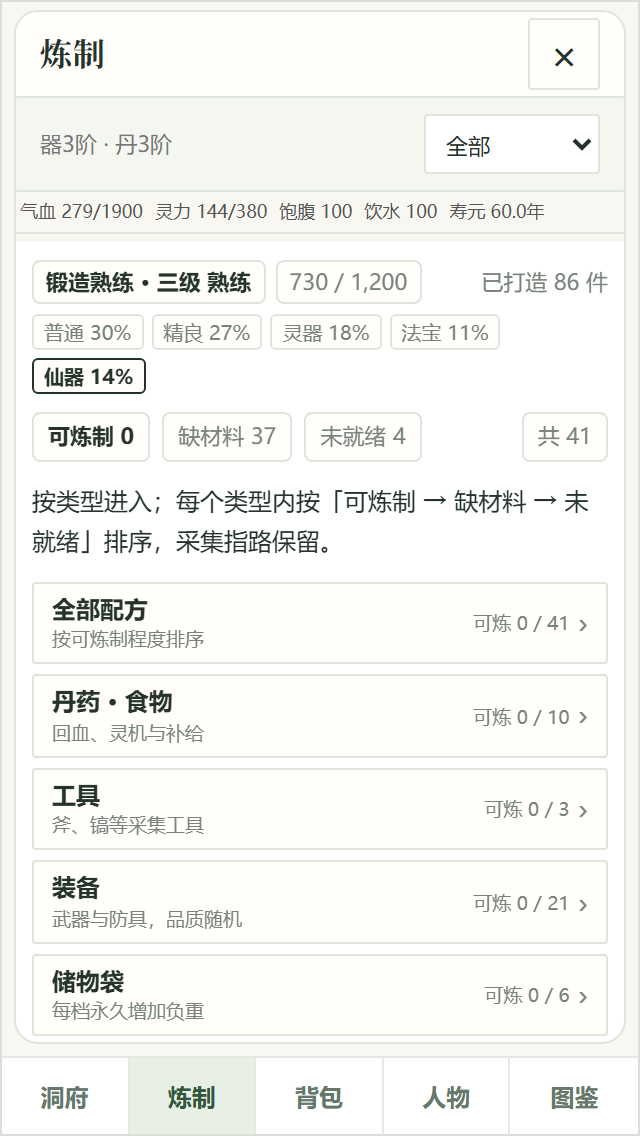
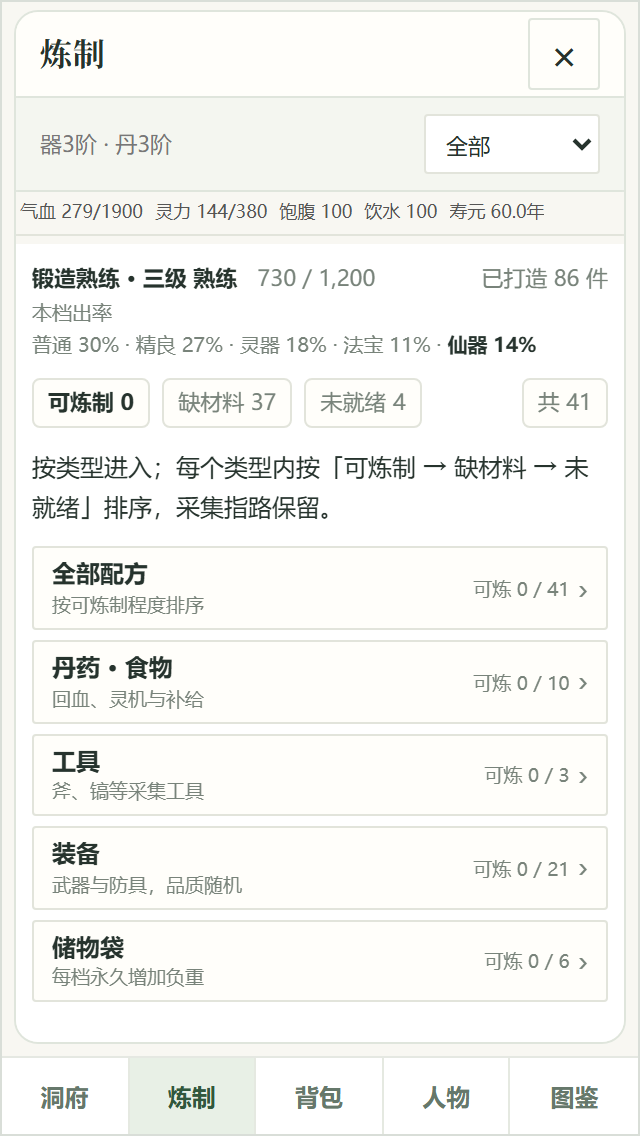
V90.52 返工：出率改成纯文字读数(去掉 chip 边框/高亮，避免被当成可选框)，档名+百分比不拆行；验收59/59，回归34/34；重传包343831 覆盖草稿(仍V-20261021-1 审核中，线上未动)

Changed region(s): [[0.0312, 0.2157, 0.9375, 0.9243], [0.6875, 0.3389, 0.9688, 0.4621]]

diff --git a/index.html b/index.html
@@ -1417,15 +1417,16 @@ body.theme-mono .rarity-0,body.theme-mono .rarity-1,body.theme-mono .rarity-2,bo
 #panel-root .craft-summary .craft-ok{color:var(--ink,#222);font-weight:600}
 #panel-root .craft-summary .craft-total{margin-left:auto;color:var(--muted,#555)}
 /* ---- V90.52 锻造熟练度：一行称号/进度 + 一行五档出率（不新增页面） ---- */
-#panel-root .forge-prof{display:flex;flex-wrap:wrap;align-items:center;gap:5px;margin:0 0 5px;font-size:11px;line-height:1.45;color:var(--muted,#555)}
-#panel-root .forge-prof>span{border:1px solid var(--line,#ddd);border-radius:4px;padding:2px 6px;background:var(--surface,#fff);white-space:nowrap}
+/* ---- V90.52 锻造熟练度：纯状态读数（不是控件）——不加边框/底色，避免被当成可点选项 ---- */
+#panel-root .forge-prof{display:flex;flex-wrap:wrap;align-items:baseline;gap:0 10px;margin:0 0 1px;font-size:11px;line-height:1.5;color:var(--muted,#555)}
 #panel-root .forge-prof .forge-rank{color:var(--ink,#222)}
 #panel-root .forge-prof .forge-rank b{font-weight:600}
 #panel-root .forge-prof .forge-prog{font-variant-numeric:tabular-nums}
-#panel-root .forge-prof .forge-done{margin-left:auto;border:0;background:transparent;padding:2px 0}
-#panel-root .forge-rate{display:flex;flex-wrap:wrap;gap:4px;margin:0 0 9px;font-size:10px;line-height:1.4;color:var(--muted,#555);font-variant-numeric:tabular-nums}
-#panel-root .forge-rate>i{font-style:normal;border:1px solid var(--line,#ddd);border-radius:3px;padding:1px 5px;background:var(--surface,#fff);white-space:nowrap}
-#panel-root .forge-rate>i.sm{border-color:var(--ink,#222);color:var(--ink,#222);font-weight:700}
+#panel-root .forge-prof .forge-done{margin-left:auto}
+#panel-root .forge-rate{margin:0 0 9px;font-size:10px;line-height:1.6;color:var(--muted,#555);font-variant-numeric:tabular-nums}
+#panel-root .forge-rate span{white-space:nowrap}
+#panel-root .forge-rate b{font-weight:600;color:var(--ink,#222);white-space:nowrap}
+#panel-root .forge-rate em{font-style:normal;color:var(--muted,#555)}
 #panel-root .recipe{padding:9px 10px;margin-bottom:7px;border-radius:7px}
 #panel-root .recipe-ready{border-color:var(--ink,#222)}
 #panel-root .recipe-hint{margin-top:5px;font-size:10px;line-height:1.5;color:var(--muted,#555);overflow-wrap:anywhere}
@@ -6365,14 +6366,15 @@ function craftRowsFor(key){
 
 function craftCounts(rows){const c={ok:0,mat:0,other:0};for(const r of rows){const s=craftStat(r);if(s.ok)c.ok++;else if(!s.wrong)c.mat++;else c.other++;}return c;}
 
-/* V90.52 锻造熟练度条：称号 + 进度 + 已打造件数 + 五档出率（锻造前就能看到这一件的品质概率） */
+/* V90.52 锻造熟练度读数：称号 + 进度 + 已打造件数 + 五档出率（纯展示，不带任何控件外观）
+   出率是"告知"，不是"可选"：整行用文字与 · 分隔，只有仙品加粗强调，不做边框/底色。 */
 function forgeStrip(){
  const rank=game.forgeRank,cur=game.forgePoints,next=game.forgeNextNeed(),w=game.forgeWeights,tier=['一','二','三','四','五'][rank];
  const prog=next?cur.toLocaleString('zh-CN')+' / '+next.toLocaleString('zh-CN'):cur.toLocaleString('zh-CN')+' · 已满';
- const rates=D.QUALITIES.map((q,i)=>`<i${i===4?' class="sm"':''}>${q.name} ${w[i]}%</i>`).join('');
+ const rates=D.QUALITIES.map((q,i)=>i===4?`<b>${q.name} ${w[i]}%</b>`:`<span>${q.name} ${w[i]}% · </span>`).join('');
  return `<div class="forge-prof"><span class="forge-rank"><b>锻造熟练 · ${tier}级 ${D.FORGE_RANKS[rank].name}</b></span>`+
   `<span class="forge-prog">${prog}</span><span class="forge-done">已打造 ${(game.s.prof||{}).forged||0} 件</span></div>`+
-  `<div class="forge-rate" aria-label="本档打造品质出率">${rates}</div>`;
+  `<div class="forge-rate"><em>本档出率</em>　${rates}</div>`;
 }
 
 function craftBody(){

diff --git a/play/jindan-v952/index.html b/play/jindan-v952/index.html
@@ -1417,15 +1417,16 @@ body.theme-mono .rarity-0,body.theme-mono .rarity-1,body.theme-mono .rarity-2,bo
 #panel-root .craft-summary .craft-ok{color:var(--ink,#222);font-weight:600}
 #panel-root .craft-summary .craft-total{margin-left:auto;color:var(--muted,#555)}
 /* ---- V90.52 锻造熟练度：一行称号/进度 + 一行五档出率（不新增页面） ---- */
-#panel-root .forge-prof{display:flex;flex-wrap:wrap;align-items:center;gap:5px;margin:0 0 5px;font-size:11px;line-height:1.45;color:var(--muted,#555)}
-#panel-root .forge-prof>span{border:1px solid var(--line,#ddd);border-radius:4px;padding:2px 6px;background:var(--surface,#fff);white-space:nowrap}
+/* ---- V90.52 锻造熟练度：纯状态读数（不是控件）——不加边框/底色，避免被当成可点选项 ---- */
+#panel-root .forge-prof{display:flex;flex-wrap:wrap;align-items:baseline;gap:0 10px;margin:0 0 1px;font-size:11px;line-height:1.5;color:var(--muted,#555)}
 #panel-root .forge-prof .forge-rank{color:var(--ink,#222)}
 #panel-root .forge-prof .forge-rank b{font-weight:600}
 #panel-root .forge-prof .forge-prog{font-variant-numeric:tabular-nums}
-#panel-root .forge-prof .forge-done{margin-left:auto;border:0;background:transparent;padding:2px 0}
-#panel-root .forge-rate{display:flex;flex-wrap:wrap;gap:4px;margin:0 0 9px;font-size:10px;line-height:1.4;color:var(--muted,#555);font-variant-numeric:tabular-nums}
-#panel-root .forge-rate>i{font-style:normal;border:1px solid var(--line,#ddd);border-radius:3px;padding:1px 5px;background:var(--surface,#fff);white-space:nowrap}
-#panel-root .forge-rate>i.sm{border-color:var(--ink,#222);color:var(--ink,#222);font-weight:700}
+#panel-root .forge-prof .forge-done{margin-left:auto}
+#panel-root .forge-rate{margin:0 0 9px;font-size:10px;line-height:1.6;color:var(--muted,#555);font-variant-numeric:tabular-nums}
+#panel-root .forge-rate span{white-space:nowrap}
+#panel-root .forge-rate b{font-weight:600;color:var(--ink,#222);white-space:nowrap}
+#panel-root .forge-rate em{font-style:normal;color:var(--muted,#555)}
 #panel-root .recipe{padding:9px 10px;margin-bottom:7px;border-radius:7px}
 #panel-root .recipe-ready{border-color:var(--ink,#222)}
 #panel-root .recipe-hint{margin-top:5px;font-size:10px;line-height:1.5;color:var(--muted,#555);overflow-wrap:anywhere}
@@ -6770,14 +6771,15 @@ function craftRowsFor(key){
 
 function craftCounts(rows){const c={ok:0,mat:0,other:0};for(const r of rows){const s=craftStat(r);if(s.ok)c.ok++;else if(!s.wrong)c.mat++;else c.other++;}return c;}
 
-/* V90.52 锻造熟练度条：称号 + 进度 + 已打造件数 + 五档出率（锻造前就能看到这一件的品质概率） */
+/* V90.52 锻造熟练度读数：称号 + 进度 + 已打造件数 + 五档出率（纯展示，不带任何控件外观）
+   出率是"告知"，不是"可选"：整行用文字与 · 分隔，只有仙品加粗强调，不做边框/底色。 */
 function forgeStrip(){
  const rank=game.forgeRank,cur=game.forgePoints,next=game.forgeNextNeed(),w=game.forgeWeights,tier=['一','二','三','四','五'][rank];
  const prog=next?cur.toLocaleString('zh-CN')+' / '+next.toLocaleString('zh-CN'):cur.toLocaleString('zh-CN')+' · 已满';
- const rates=D.QUALITIES.map((q,i)=>`<i${i===4?' class="sm"':''}>${q.name} ${w[i]}%</i>`).join('');
+ const rates=D.QUALITIES.map((q,i)=>i===4?`<b>${q.name} ${w[i]}%</b>`:`<span>${q.name} ${w[i]}% · </span>`).join('');
  return `<div class="forge-prof"><span class="forge-rank"><b>锻造熟练 · ${tier}级 ${D.FORGE_RANKS[rank].name}</b></span>`+
   `<span class="forge-prog">${prog}</span><span class="forge-done">已打造 ${(game.s.prof||{}).forged||0} 件</span></div>`+
-  `<div class="forge-rate" aria-label="本档打造品质出率">${rates}</div>`;
+  `<div class="forge-rate"><em>本档出率</em>　${rates}</div>`;
 }
 
 function craftBody(){

diff --git a/releases/山野修仙记_V90.52_锻造熟练.html b/releases/山野修仙记_V90.52_锻造熟练.html
@@ -1417,15 +1417,16 @@ body.theme-mono .rarity-0,body.theme-mono .rarity-1,body.theme-mono .rarity-2,bo
 #panel-root .craft-summary .craft-ok{color:var(--ink,#222);font-weight:600}
 #panel-root .craft-summary .craft-total{margin-left:auto;color:var(--muted,#555)}
 /* ---- V90.52 锻造熟练度：一行称号/进度 + 一行五档出率（不新增页面） ---- */
-#panel-root .forge-prof{display:flex;flex-wrap:wrap;align-items:center;gap:5px;margin:0 0 5px;font-size:11px;line-height:1.45;color:var(--muted,#555)}
-#panel-root .forge-prof>span{border:1px solid var(--line,#ddd);border-radius:4px;padding:2px 6px;background:var(--surface,#fff);white-space:nowrap}
+/* ---- V90.52 锻造熟练度：纯状态读数（不是控件）——不加边框/底色，避免被当成可点选项 ---- */
+#panel-root .forge-prof{display:flex;flex-wrap:wrap;align-items:baseline;gap:0 10px;margin:0 0 1px;font-size:11px;line-height:1.5;color:var(--muted,#555)}
 #panel-root .forge-prof .forge-rank{color:var(--ink,#222)}
 #panel-root .forge-prof .forge-rank b{font-weight:600}
 #panel-root .forge-prof .forge-prog{font-variant-numeric:tabular-nums}
-#panel-root .forge-prof .forge-done{margin-left:auto;border:0;background:transparent;padding:2px 0}
-#panel-root .forge-rate{display:flex;flex-wrap:wrap;gap:4px;margin:0 0 9px;font-size:10px;line-height:1.4;color:var(--muted,#555);font-variant-numeric:tabular-nums}
-#panel-root .forge-rate>i{font-style:normal;border:1px solid var(--line,#ddd);border-radius:3px;padding:1px 5px;background:var(--surface,#fff);white-space:nowrap}
-#panel-root .forge-rate>i.sm{border-color:var(--ink,#222);color:var(--ink,#222);font-weight:700}
+#panel-root .forge-prof .forge-done{margin-left:auto}
+#panel-root .forge-rate{margin:0 0 9px;font-size:10px;line-height:1.6;color:var(--muted,#555);font-variant-numeric:tabular-nums}
+#panel-root .forge-rate span{white-space:nowrap}
+#panel-root .forge-rate b{font-weight:600;color:var(--ink,#222);white-space:nowrap}
+#panel-root .forge-rate em{font-style:normal;color:var(--muted,#555)}
 #panel-root .recipe{padding:9px 10px;margin-bottom:7px;border-radius:7px}
 #panel-root .recipe-ready{border-color:var(--ink,#222)}
 #panel-root .recipe-hint{margin-top:5px;font-size:10px;line-height:1.5;color:var(--muted,#555);overflow-wrap:anywhere}
@@ -6365,14 +6366,15 @@ function craftRowsFor(key){
 
 function craftCounts(rows){const c={ok:0,mat:0,other:0};for(const r of rows){const s=craftStat(r);if(s.ok)c.ok++;else if(!s.wrong)c.mat++;else c.other++;}return c;}
 
-/* V90.52 锻造熟练度条：称号 + 进度 + 已打造件数 + 五档出率（锻造前就能看到这一件的品质概率） */
+/* V90.52 锻造熟练度读数：称号 + 进度 + 已打造件数 + 五档出率（纯展示，不带任何控件外观）
+   出率是"告知"，不是"可选"：整行用文字与 · 分隔，只有仙品加粗强调，不做边框/底色。 */
 function forgeStrip(){
  const rank=game.forgeRank,cur=game.forgePoints,next=game.forgeNextNeed(),w=game.forgeWeights,tier=['一','二','三','四','五'][rank];
  const prog=next?cur.toLocaleString('zh-CN')+' / '+next.toLocaleString('zh-CN'):cur.toLocaleString('zh-CN')+' · 已满';
- const rates=D.QUALITIES.map((q,i)=>`<i${i===4?' class="sm"':''}>${q.name} ${w[i]}%</i>`).join('');
+ const rates=D.QUALITIES.map((q,i)=>i===4?`<b>${q.name} ${w[i]}%</b>`:`<span>${q.name} ${w[i]}% · </span>`).join('');
  return `<div class="forge-prof"><span class="forge-rank"><b>锻造熟练 · ${tier}级 ${D.FORGE_RANKS[rank].name}</b></span>`+
   `<span class="forge-prog">${prog}</span><span class="forge-done">已打造 ${(game.s.prof||{}).forged||0} 件</span></div>`+
-  `<div class="forge-rate" aria-label="本档打造品质出率">${rates}</div>`;
+  `<div class="forge-rate"><em>本档出率</em>　${rates}</div>`;
 }
 
 function craftBody(){

diff --git a/tools/build_taptap_v952.py b/tools/build_taptap_v952.py
@@ -25,7 +25,7 @@ ADAPTER = ROOT.parent / "shanhe-v907" / "taptap" / "taptap-adapter.js"
 OUTDIR = ROOT / "taptap-build" / "shanhe-v952-taptap"
 ZIP = ROOT.parent / "山野修仙记_V90.52_TapTap上传包.zip"
 
[2 lines of base64/hex data omitted]
 
 # v907 已验证的客户端 ID（适配层 CONFIG 内已含，这里用于产物断言）
 AD_SPACE_ID = "1054324"
